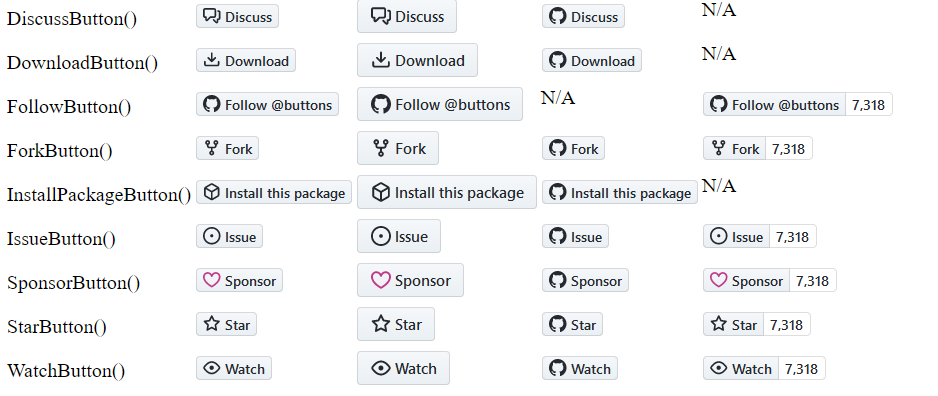
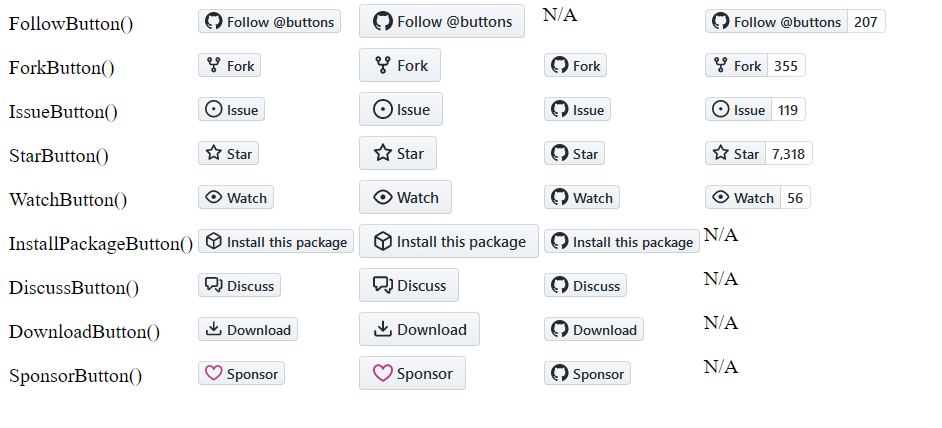
Fixed button count possibilities

diff --git a/examples/buttons_example.py b/examples/buttons_example.py
@@ -3,9 +3,9 @@ from utils.logger import log, logging
 from reactpy_github_buttons import FollowButton, InstallPackageButton, SponsorButton, StarButton, WatchButton, ForkButton, IssueButton, DiscussButton, DownloadButton
 
 
-BUTTON_TYPES = [DiscussButton, DownloadButton, FollowButton, 
-                ForkButton, InstallPackageButton, IssueButton, 
-                SponsorButton, StarButton, WatchButton]
+BUTTON_TYPES = [FollowButton, ForkButton, IssueButton, StarButton,
+                WatchButton,
+                InstallPackageButton, DiscussButton, DownloadButton, SponsorButton]
 
 GIT_USER = 'reactive-python'
 GIT_REPO = 'reactpy'
@@ -23,26 +23,36 @@ def TableHead():
 @component
 def ButtonRow(button):
 
-    # Follow does not support an alternative icon 
+    if button is FollowButton:
+        default = html.td(button(user=GIT_USER))
+        large = html.td(button(user=GIT_USER, large=True))
+        std_icon = 'N/A'
+        counter = html.td(button(user=GIT_USER, show_count=True))
 
-    if button is not FollowButton:
-        button_std_icon = html.td(button(user=GIT_USER, repo=GIT_REPO, standard_icon=True))
+    elif button is SponsorButton:
+        default = html.td(button(user=GIT_USER))
+        large = html.td(button(user=GIT_USER, large=True))
+        std_icon = html.td(button(user=GIT_USER, standard_icon=True))
+        counter = 'N/A'
+
+    elif button in [WatchButton, StarButton, ForkButton, IssueButton]:
+        default = html.td(button(user=GIT_USER, repo=GIT_REPO))
+        large = html.td(button(user=GIT_USER, repo=GIT_REPO, large=True))
+        std_icon = html.td(button(user=GIT_USER, repo=GIT_REPO, standard_icon=True))
+        counter = html.td(button(user=GIT_USER, repo=GIT_REPO, show_count=True))
+
     else:
-        button_std_icon = 'N/A'
-
-    # Only these buttons support counters
-
-    if button in [FollowButton, SponsorButton, WatchButton, StarButton, ForkButton, IssueButton]:
-        button_show_count = html.td(button(user=GIT_USER, repo=GIT_REPO, show_count=True))
-    else:
-        button_show_count = 'N/A'
+        default = html.td(button(user=GIT_USER, repo=GIT_REPO))
+        large = html.td(button(user=GIT_USER, repo=GIT_REPO, large=True))
+        std_icon = html.td(button(user=GIT_USER, repo=GIT_REPO, standard_icon=True))
+        counter = 'N/A'
 
     return html.tr(
         html.td(str(button).split(' ')[1] + '()'),
-        html.td(button(user=GIT_USER, repo=GIT_REPO)),
-        html.td(button(user=GIT_USER, repo=GIT_REPO, large=True)),
-        button_std_icon,
-        button_show_count,
+        default,
+        large,
+        std_icon,
+        counter,
     )
 
 

diff --git a/reactpy_github_buttons/buttons.py b/reactpy_github_buttons/buttons.py
@@ -32,11 +32,12 @@ def GithubButton(user:str, repo:str, props:dict):
     return _RactpyGithubButtons(_args)
 
 
-def FollowButton(user:str, repo:str, large=False, show_count=False):
+def FollowButton(user:str, large=False, show_count=False):
 
     props = {
         "text" : "Follow @buttons",
         "aria-label": "Follow @buttons on GitHub",
+        'href' : f'https://github.com/{user}'
     }
 
     if large:
@@ -46,26 +47,24 @@ def FollowButton(user:str, repo:str, large=False, show_count=False):
         props.update({"data-show-count": "true"})
 
 
-    return GithubButton(user=user, repo=repo, props=props)
+    return GithubButton(user=user, repo='', props=props)
 
 
-def SponsorButton(user:str, repo:str, large=False, show_count=False, standard_icon=False):
+def SponsorButton(user:str, large=False, standard_icon=False):
 
     props = {
         "text" : "Sponsor",
         "aria-label": "Sponsor @buttons on GitHub",
+        'href' : f'https://github.com/sponsors/{user}',
     }
 
     if large:
         props.update({"data-size": "large"})
 
-    if show_count:
-        props.update({"data-show-count": "true"})
-
     if not standard_icon:
         props.update({"data-icon": "octicon-heart"})
 
-    return GithubButton(user=user, repo=repo, props=props)
+    return GithubButton(user=user, repo='', props=props)
 
 
 def WatchButton(user:str, repo:str, large=False, show_count=False, standard_icon=False):
@@ -73,6 +72,7 @@ def WatchButton(user:str, repo:str, large=False, show_count=False, standard_icon
     props = {
         "text" : "Watch",
         "aria-label": "Watch buttons/github-buttons on GitHub",
+        'href' : f'https://github.com/{user}/{repo}/subscription'
     }
 
     if large:
@@ -111,6 +111,7 @@ def ForkButton(user:str, repo:str, large=False, show_count=False, standard_icon=
     props = {
         "text" : "Fork",
         "aria-label": "Fork buttons/github-buttons on GitHub",
+        'href' : f'https://github.com/{user}/{repo}/fork'
     }
 
     if large:
@@ -130,6 +131,7 @@ def IssueButton(user:str, repo:str, large=False, show_count=False, standard_icon
     props = {
         "text" : "Issue",
         "aria-label": "Issue buttons/github-buttons on GitHub",
+        'href' : f'https://github.com/{user}/{repo}/issues'
     }
 
     if large:

diff --git a/examples/button.py b/examples/button.py
@@ -1,0 +1,24 @@
+from reactpy import component, html, run
+from utils.logger import log, logging
+from reactpy_github_buttons import SponsorButton
+
+GIT_USER = 'reactive-python'
+GIT_REPO = 'reactpy'
+
+
+@component
+def AppMain():
+    return html.div(
+        # SponsorButton(user=GIT_USER),
+        # SponsorButton(user=GIT_USER, large=True),
+        # SponsorButton(user=GIT_USER, standard_icon=True),
+        SponsorButton(user=GIT_USER, show_count=True),
+
+    )
+
+
+# python -m examples.button
+
+if __name__ == "__main__":
+    log.setLevel(logging.INFO)
+    run(AppMain)
